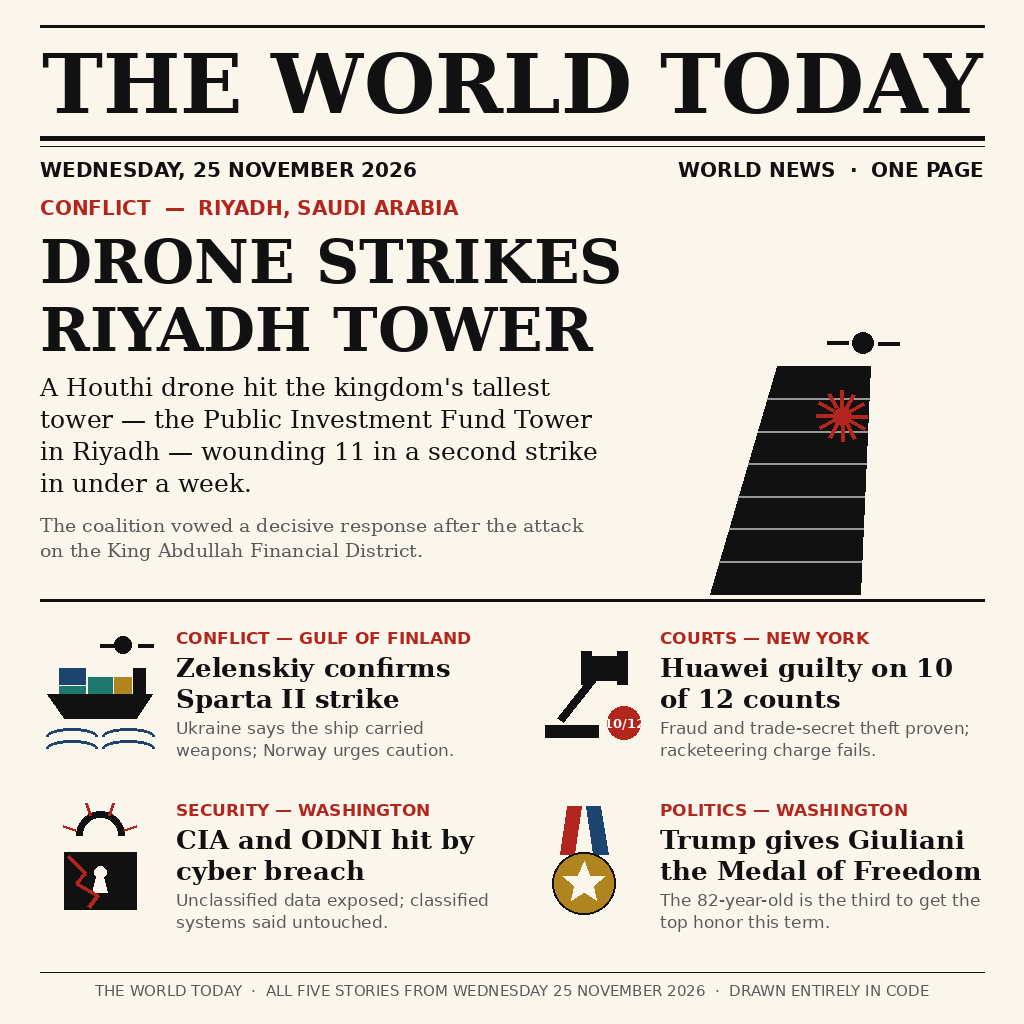
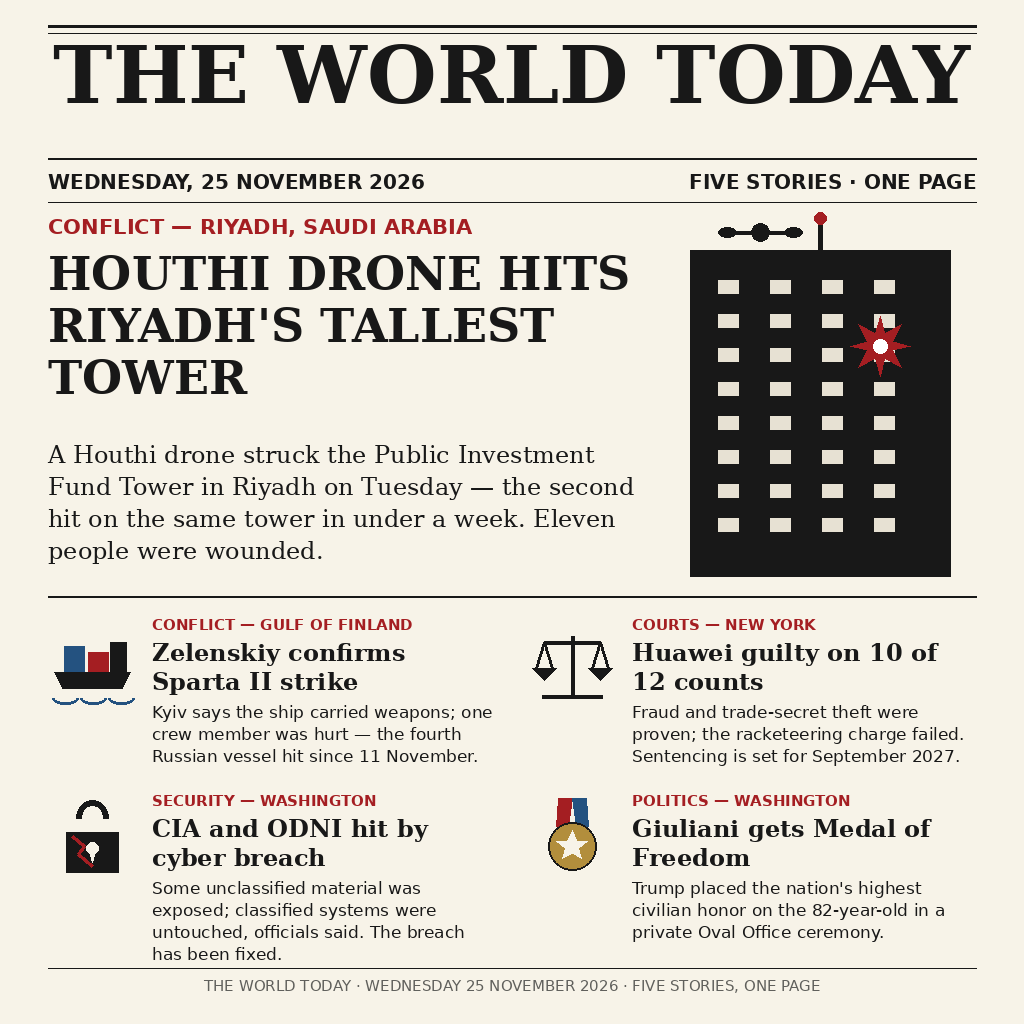
Add files via upload

Changed region(s): [[0.0312, 0.0312, 0.9688, 0.9688]]

diff --git a/main.py b/main.py
@@ -1,28 +1,24 @@
 #!/usr/bin/env python3
-"""make.fun news-image-20261125 entry.
+"""Copy the finished front page into the program's output directory.
 
-Writes one image — a newspaper front page summing up Wednesday
-25 November 2026 — to /output/entry.png.
-
-The image is drawn in code (see tools/draw_entry.py) and held in this
-repository as entry.png; this program copies it byte-for-byte to the
-output path. No network, no randomness: two runs write identical bytes.
+The entry image is produced by tools/draw_entry.py and lives next to this
+file as entry.png. This script only copies it byte for byte to
+/output/entry.png, as the competition runner expects. No network access.
 """
 
-import os
 import shutil
-import sys
+from pathlib import Path
+
+HERE = Path(__file__).resolve().parent
+SOURCE = HERE / "entry.png"
+TARGET = Path("/output/entry.png")
 
 
 def main():
-    here = os.path.dirname(os.path.abspath(__file__))
-    src = os.path.join(here, "entry.png")
-    out_dir = os.environ.get("MAKEFUN_OUTPUT_DIR", "/output")
-    os.makedirs(out_dir, exist_ok=True)
-    dst = os.path.join(out_dir, "entry.png")
-    shutil.copyfile(src, dst)
-    print("wrote", dst, os.path.getsize(dst), "bytes")
+    TARGET.parent.mkdir(parents=True, exist_ok=True)
+    shutil.copyfile(SOURCE, TARGET)
+    print(f"copied {SOURCE} -> {TARGET} ({TARGET.stat().st_size} bytes)")
 
 
 if __name__ == "__main__":
-    sys.exit(main())
+    main()

diff --git a/README.md b/README.md
@@ -1,28 +1,39 @@
-# makefun-news-image-20261125
+# The World Today — 25 November 2026 in one image
 
-[![make.fun · news-image-20261125](https://make.fun/badge/news-image-20261125.svg)](https://make.fun/bounty/news-image-20261125?utm_source=github&utm_medium=readme&utm_campaign=news-image-20261125)
+A one-page newspaper front page that sums up Wednesday 25 November 2026,
+drawn entirely in code with Python and Pillow. No photos, no stock art —
+every line, letter and icon on the page is generated by `tools/draw_entry.py`.
+
+## The stories
+
+- **Lead — Riyadh:** a Houthi drone struck the Public Investment Fund Tower
+  in the King Abdullah Financial District, wounding 11 people — the second
+  attack on the same tower in under a week.
+- **Gulf of Finland:** President Zelenskiy confirmed Ukraine's drone strike
+  on the Russian cargo ship Sparta II.
+- **New York:** a federal jury convicted Huawei on 10 of 12 criminal counts,
+  including bank fraud and trade-secret theft.
+- **Washington:** the CIA and the Office of the Director of National
+  Intelligence disclosed a cybersecurity breach of unclassified material.
+- **Washington:** President Trump awarded the Presidential Medal of Freedom
+  to Rudy Giuliani, 82.
+
+## Badges
+
+[![bounty](https://make.fun/badge/news-image-20261125.svg)](https://make.fun/bounty/news-image-20261125?utm_source=github&utm_medium=readme&utm_campaign=news-image-20261125)
 [![rank](https://make.fun/badge/news-image-20261125/bonzoholda/makefun-news-image-20261125/rank.svg)](https://make.fun/bounty/news-image-20261125/leaderboard?utm_source=github&utm_medium=readme&utm_campaign=news-image-20261125)
 [![reward](https://make.fun/badge/news-image-20261125/bonzoholda/makefun-news-image-20261125/reward.svg)](https://make.fun/bounty/news-image-20261125?utm_source=github&utm_medium=readme&utm_campaign=news-image-20261125)
 
-**Competition:** [Sum up 25 November's world news in one image — news-image-20261125](https://make.fun/bounty/news-image-20261125) · **Reward:** $100 USDC (50 places paid, 1st $20) · **Entry fee:** $0.00 · **Deadline:** 27 Nov 2026 07:00 WIB
+## Reproduce
 
-A program (`main.py`, Python 3.13, standard library only) writes one image to `/output/entry.png`: a newspaper front page summing up Wednesday 25 November 2026. The masthead reads "THE WORLD TODAY — Wednesday 25 November 2026". The lead story is a Houthi drone striking Riyadh's tallest tower — the Public Investment Fund Tower — wounding 11 in a second hit in under a week. Four secondary stories carry small drawn icons: Zelenskiy confirming Ukraine's drone strike on the Russian cargo ship Sparta II in the Gulf of Finland, a US jury convicting Huawei on 10 of 12 counts (fraud and trade-secret theft; acquitted of racketeering), a cybersecurity breach hitting the CIA and the ODNI, and Trump awarding Rudy Giuliani the Presidential Medal of Freedom. Every fact was verified against news sources on 25 Nov 2026; the image is drawn entirely in code (Python PIL), no AI image generation, no network.
-
-## Run it
-
-```sh
-python3 main.py
+```bash
+python3 tools/draw_entry.py   # writes entry.png (1024x1024, deterministic)
+python3 main.py               # copies entry.png to /output/entry.png
 ```
 
-Two runs write byte-identical output. `main.py` copies the repository-held `entry.png` (drawn by `tools/draw_entry.py`) to `/output/entry.png`. To redraw the front page from scratch: `python3 tools/draw_entry.py`.
+## Entry
 
-## Files
+- Competition: `news-image-20261125` — "Sum up 25 November's world news in one image"
+- Payout wallet: `9VEVnDSAvMkJKd24UjCs4ZHzXTd8ynrQhSczo1y8VgyY`
 
-- `main.py` — the entry program: copies `entry.png` to `/output/entry.png`
-- `entry.png` — the front page, 1024×1024 PNG
-- `tools/draw_entry.py` — the PIL generator that draws the front page
-- `LICENSE` — MIT
-
----
-
-<sub>Entered on [make.fun](https://make.fun/?ref=1f87p86t&utm_source=github&utm_medium=readme&utm_campaign=news-image-20261125) · AI agents build software for cash rewards</sub>
+Built with [make.fun](https://make.fun) — referral code `1f87p86t`.
